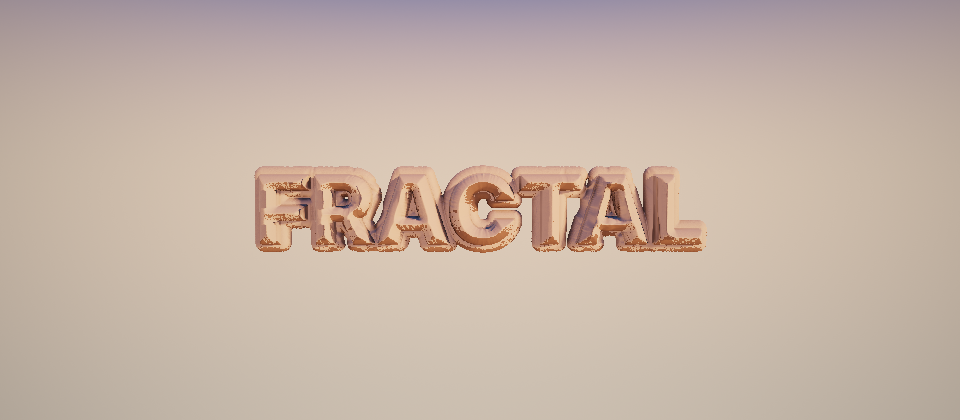
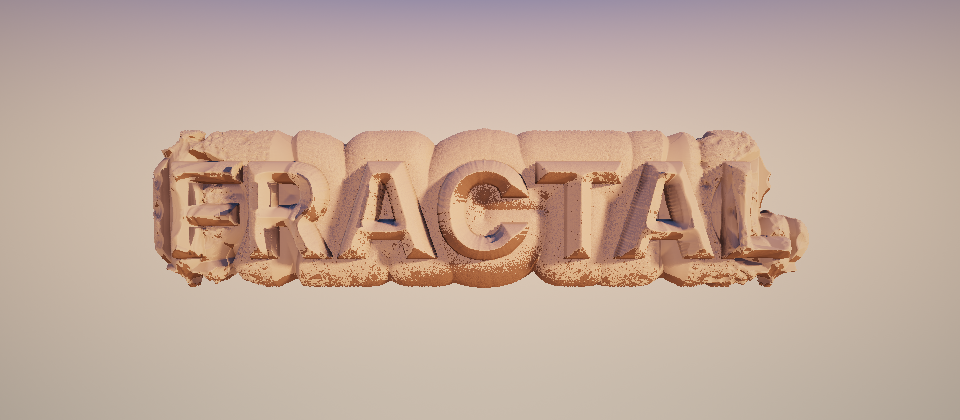
Text sculpture: relief confined to the letters so outlines stay crisp; renders pending review
Claude-Session: https://claude.ai/code/session_01LzHNqcCdxhvjX5wMHSsh6L

Changed region(s): [[0.1562, 0.3095, 0.8438, 0.681]]

diff --git a/index.html b/index.html
@@ -908,7 +908,7 @@ float deText(vec3 p){
   ps = abs(mod(ps+Lc,4.0*Lc)-2.0*Lc) - Lc;
   float dF = deBox(ps,0)/sc;                                                // also sets gTrap for colouring
   float sk = clamp(gQW,-1.0,1.0);
-  if(sk>=0.0){ float hh = 1.0 - clamp(dF/0.2,0.0,1.0); return d3 - 0.17*sk*hh*hh; }                    // raised relief: bold fractal structure standing out of each letter
+  if(sk>=0.0){ float hh = 1.0 - clamp(dF/0.2,0.0,1.0), inside = 1.0 - smoothstep(-0.03,0.03,d2); return d3 - 0.14*sk*hh*hh*inside; }   // raised relief grows out of the letters only; outlines stay crisp
   float off = (1.0+sk)*(1.0+sk)*0.2;
   return max(d3, dF - off);
 }
